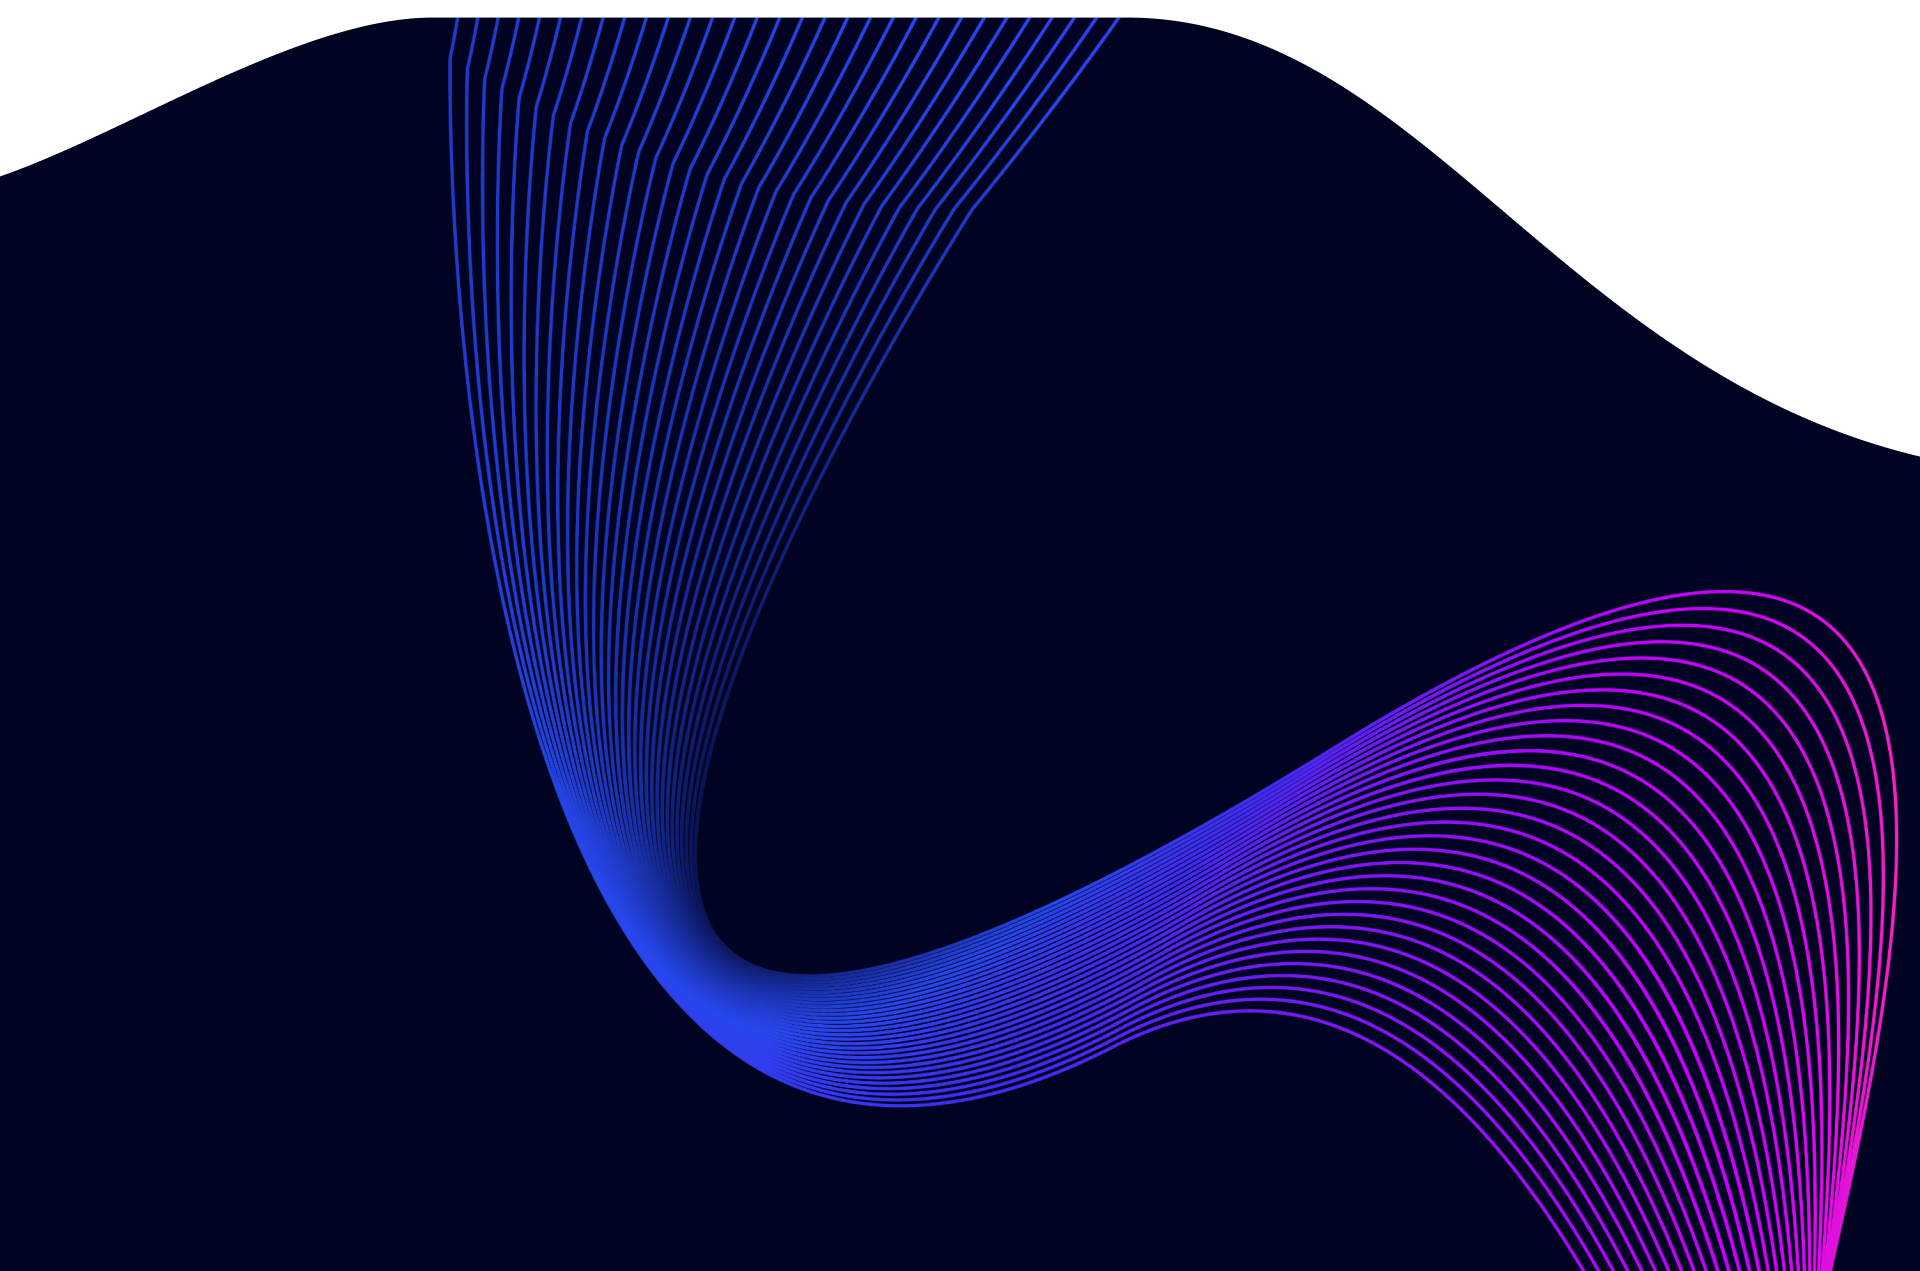
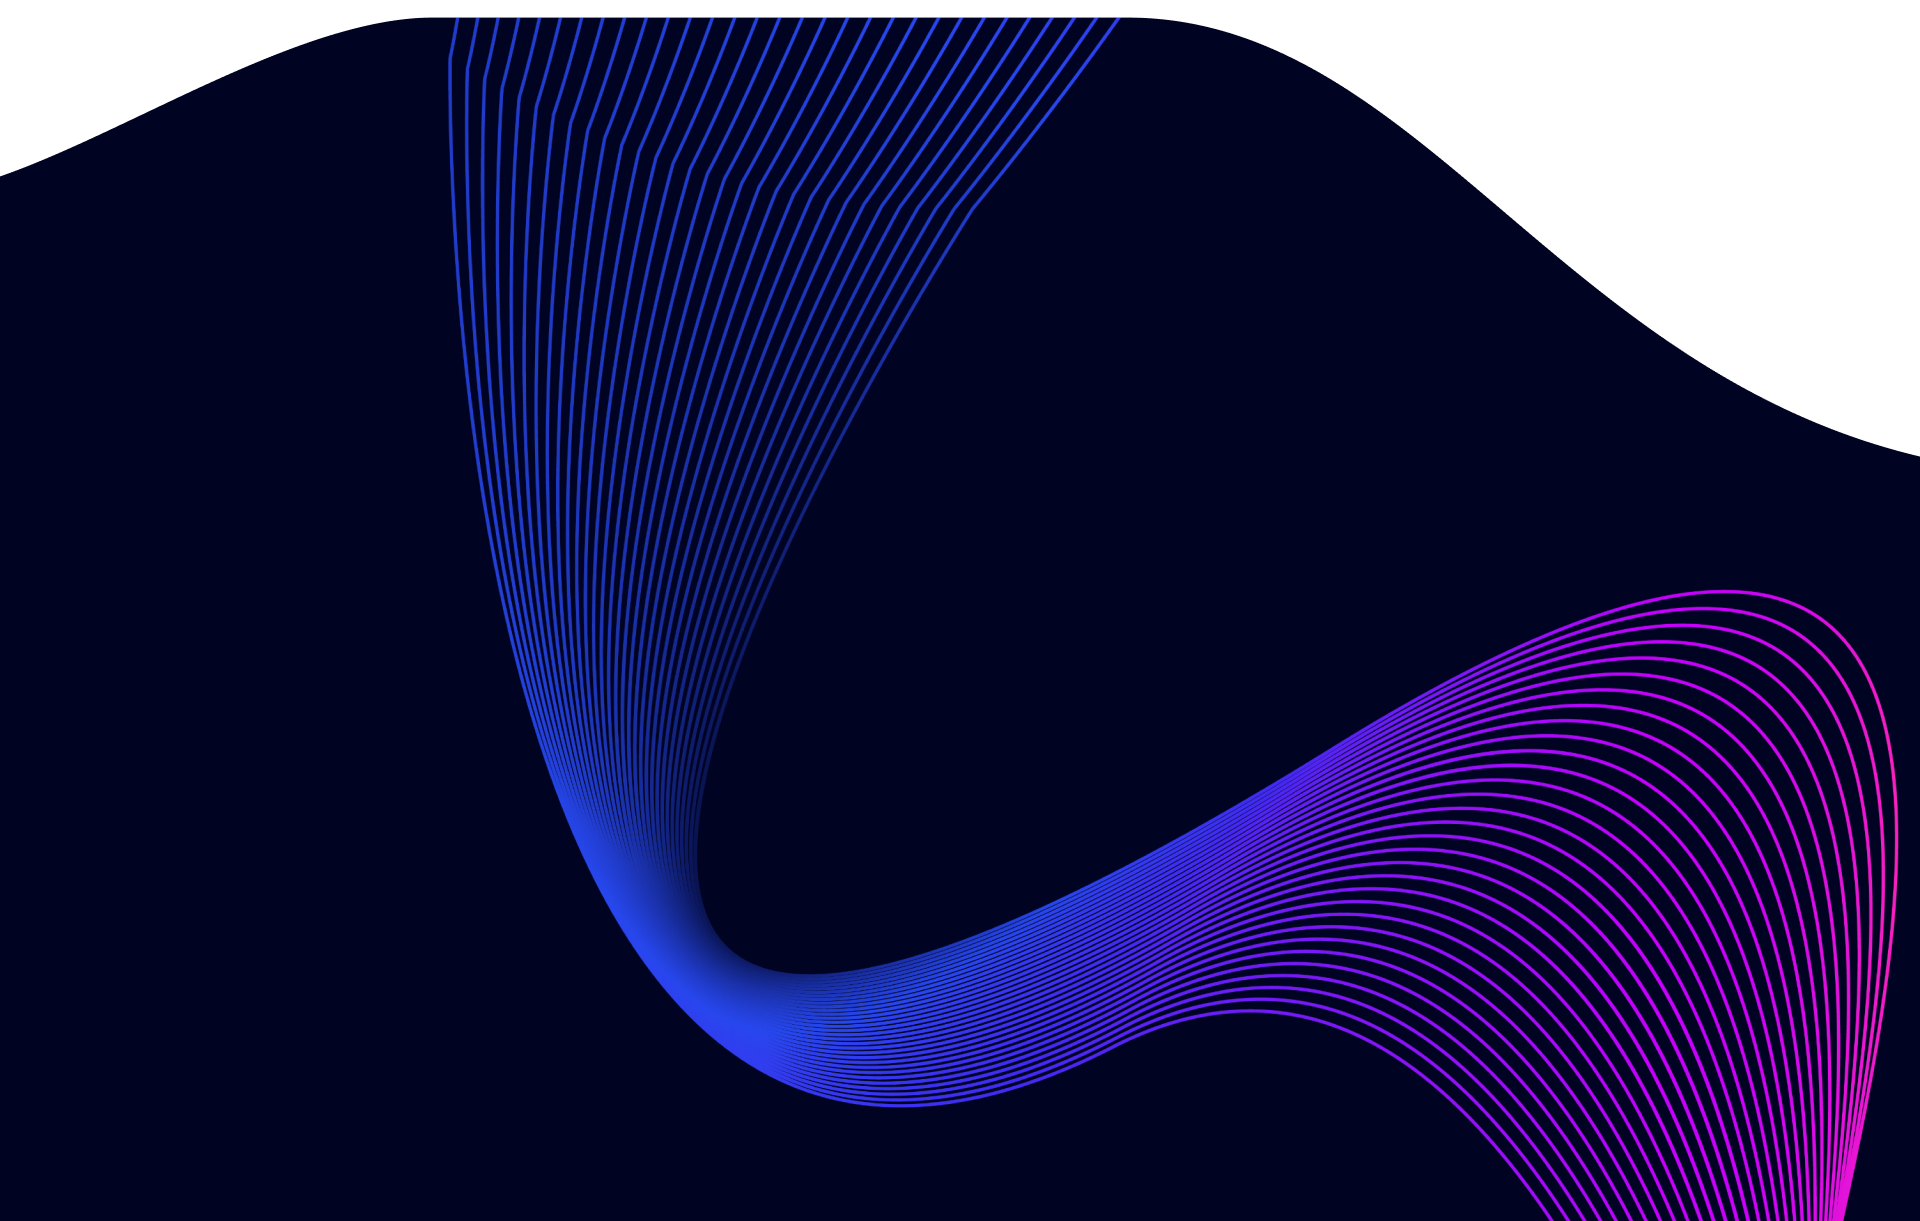
improved style

diff --git a/style/main.css b/style/main.css
@@ -37,7 +37,7 @@ html {
 }
 
 .bg-bottom {
-    bottom: -100px;
+    bottom: -5rem;
 }
 
 body {
@@ -188,11 +188,11 @@ header {
     transform: scale(.97);
 }
 
-
-
 .feature {
     position: relative;
-    min-height: 460px;
+    height: 80vh;
+    max-height: 50rem;
+    width: 100%;
     display: grid;
     grid-template-columns: .8fr 1.2fr;
     align-items: center;
@@ -239,6 +239,7 @@ header {
     opacity: 0;
     transition: .8s ease;
     text-align: left;
+    margin-left: 5rem;
 }
 
 .feature-label.is-visible {
@@ -404,13 +405,12 @@ header {
 }
 
 .closing {
-    height: 100vh;
+    height: 90vh;
     display: flex;
     flex-direction: column;
     align-items: center;
     justify-content: center;
     text-align: center;
-    padding: 40px 0 75px;
     z-index: 10;
     position: relative;
 }
@@ -452,7 +452,6 @@ footer {
     text-align: center;
     color: #8a8d95;
     font-size: 11px;
-    padding: 0 0 22px;
     z-index: 5;
 }
 
@@ -1209,69 +1208,56 @@ footer {
 
 .qs-note {
     width: 100%;
-    max-width: 60rem;
     padding: 18px 22px;
-    text-align: left;
+    text-align: center;
     background: #fff;
-    border: 1px solid #dde4ef;
     border-radius: 12px;
     color: #354258;
     opacity: 0;
     pointer-events: none;
-    box-shadow: 0 14px 30px rgba(35, 43, 65, .08);
+}
+
+.qs-eyebrow {
+    display: block;
+    margin-bottom: 9px;
+    color: #5278c9;
+    font-size: .7rem;
+    font-weight: 700;
+    letter-spacing: .16em;
 }
 
 .qs-note h3 {
     margin: 0 0 8px;
-    font-size: 1.05rem;
+    font-size: clamp(1.12rem, 2vw, 1.35rem);
     color: #111c32;
 }
 
-.qs-note p {
-    margin: 0 0 14px;
-    font-size: .95rem;
-    line-height: 1.55;
-}
-
-.qs-note code {
-    font: 500 .9em ui-monospace, SFMono-Regular, Menlo, monospace;
-    background: #e9eff9;
-    color: #284f9e;
-    padding: .1em .35em;
-    border-radius: 3px;
-}
-
-.qs-chips {
+#providers-list{
     display: flex;
-    flex-wrap: wrap;
-    gap: 8px;
-    margin-bottom: 12px;
+    justify-content: center;
 }
 
-.qs-chips button {
-    font: 500 .82rem ui-monospace, SFMono-Regular, Menlo, monospace;
-    padding: 5px 13px;
-    border-radius: 99px;
-    border: 1px solid #c4cfe2;
-    background: #fff;
-    color: #354258;
-    cursor: pointer;
-    transition: .2s;
+#providers-list li{
+    list-style: none;
+    width: fit-content;
 }
 
-.qs-chips button.on {
-    background: #3268d8;
-    border-color: #3268d8;
-    color: #fff;
-}
-
-.qs-note .qs-cmd {
+.qs-cmd {
     display: block;
     padding: 10px 14px;
     border-radius: 8px;
-    background: #151922;
-    color: #98c379;
-    font-size: .95rem;
+    border: 2px solid var(--muted);
+    color: var(--ag-ink);
+    font-size: 1rem;
+    margin: 0px 10px;
+    font-weight: 500;
+    font-family: ui-monospace, SFMono-Regular, Menlo, monospace;
+    transition: 200ms ease-out;
+}
+
+.qs-cmd:hover{
+    transform: scale(1.05);
+    cursor: pointer;
 }
 
 #qs-base {
@@ -1315,9 +1301,93 @@ footer {
     .qs-note {
         padding: 14px 16px;
     }
+}
 
-    .qs-note p {
-        font-size: .85rem;
-        margin-bottom: 10px;
+
+/* ===== Refinement: feature copy + provider picker ===== */
+.feature-label {
+    align-self: center;
+    max-width: 36rem;
+    padding: clamp(22px, 3vw, 34px);
+    border: 1px solid rgba(255, 255, 255, .58);
+    border-radius: 20px;
+    color: #182744;
+    background: linear-gradient(135deg, rgba(255,255,255,.82), rgba(239,245,255,.62));
+    box-shadow: 0 18px 48px rgba(31, 58, 105, .09);
+    -webkit-backdrop-filter: blur(14px);
+    backdrop-filter: blur(14px);
+}
+
+.feature-label .feature-kicker {
+    display: inline-block;
+    margin-bottom: 14px;
+    color: #5278c9;
+    font-size: .68rem;
+    font-weight: 700;
+    letter-spacing: .16em;
+}
+
+.feature-label > p:first-of-type {
+    margin: 0 0 10px;
+    color: #172b4d;
+    font-size: clamp(1.35rem, 2.2vw, 1.8rem);
+    line-height: 1.2;
+    font-weight: 700;
+    letter-spacing: -.035em;
+}
+
+.feature-label .feature-description {
+    margin: 0;
+    color: #53627a;
+    font-size: clamp(.96rem, 1.35vw, 1.05rem);
+    line-height: 1.7;
+}
+
+.feature-label strong {
+    color: #244f9e;
+    font-weight: 700;
+}
+
+
+
+
+
+.terminal-body .py-comment {
+    color: #7f8da5;
+    font-style: italic;
+}
+
+@media (max-width: 900px) {
+    .feature-label {
+        max-width: none;
+    }
+    .qs-provider-list {
+        grid-template-columns: repeat(2, minmax(0, 1fr));
+    }
+}
+
+@media (max-width: 640px) {
+    .feature-label {
+        padding: 20px;
+        border-radius: 16px;
+        font-size: .98rem;
+    }
+    .feature-label > p:first-of-type {
+        font-size: 1.35rem;
+    }
+    .qs-provider-list {
+        gap: 7px;
+    }
+    .qs-provider {
+        padding: 10px;
+    }
+    .qs-provider-name {
+        font-size: .82rem;
+    }
+    .qs-provider-hint {
+        font-size: .64rem;
+    }
+    .qs-note .qs-cmd {
+        font-size: .76rem;
     }
 }

diff --git a/index.html b/index.html
@@ -36,10 +36,11 @@
       <section class="feature">
         <h2 class="feature-title reveal">Spiegazione<br>&amp; codice</h2>
         <div class="feature-label reveal">
-          Unisci la teoria alla pratica in un'unica schermata. Da un lato leggi la <strong>spiegazione architetturale
-            generata dall'IA</strong> per comprendere i concetti chiave, dall'altro esplori il <strong>codice sorgente
-            originale</strong>. I sussurri contestuali ti guidano riga per riga nei passaggi più complessi, per non
-          farti mai perdere il filo.
+          <span class="feature-kicker">COMPRENDI · ESPLORA · IMPARA</span>
+          <p>Teoria e pratica, finalmente nello stesso spazio.</p>
+          <p class="feature-description">Leggi la <strong>spiegazione architetturale generata dall’IA</strong> mentre
+            esplori il <strong>codice sorgente originale</strong>. I suggerimenti contestuali collegano i concetti
+            alle righe di codice e ti aiutano a capire non solo cosa succede, ma anche perché.</p>
         </div>
         <div class="mockups">
           <div class="mock-card paper reveal">
@@ -64,8 +65,6 @@
         </div>
       </section>
 
-
-
       <section class="quickstart" id="quickstart">
         <div class="qs-stage">
           <div class="quickstart-terminal" id="qs-terminal">
@@ -86,16 +85,16 @@
 )</pre>
           </div>
           <aside class="qs-note" id="qs-note">
-            <h3><code>BaseChatModel</code> è la base di LangChain</h3>
-            <p>È la classe base generica di LangChain per i modelli di chat: RepoWhisper funziona con qualsiasi modello
-              che la estende. Scegli il provider e installa il suo extra per avere il modello pronto da passare come <code>llm</code>.</p>
-            <div class="qs-chips" role="group" aria-label="Provider LLM">
-              <button type="button" class="on" data-extra="groq">groq</button>
-              <button type="button" data-extra="openai">openai</button>
-              <button type="button" data-extra="anthropic">anthropic</button>
-              <button type="button" data-extra="ollama">ollama</button>
+            <span class="qs-eyebrow">IL TUO MODELLO, LA TUA SCELTA</span>
+            <h3>Scegli il provider che preferisci</h3>
+            <div>
+              <ul id="providers-list">
+                <li><code class="qs-cmd">pip install repowhiser[groq]</code></li>
+                <li><code class="qs-cmd">pip install repowhiser[openai]</code></li>
+                <li><code class="qs-cmd">pip install repowhiser[anthropic]</code></li>
+                <li><code class="qs-cmd">pip install repowhiser[ollama]</code></li>
+              </ul>
             </div>
-            <code class="qs-cmd" id="qs-cmd">pip install "RepoWhisper[groq]"</code>
           </aside>
           <p class="quickstart-text" id="qs-text">
             Inizializza il motore in poche righe di Python. Configura il repository target, collega il tuo LLM preferito e
@@ -108,7 +107,7 @@
         <div class="ag-stage">
           <div class="ag-heading">
             <div>
-              <span class="ag-eyebrow">SYSTEM ARCHITECTURE <i></i> MULTI-AGENT WORKFLOW</span>
+              <span class="ag-eyebrow">ARCHITETTURA DI SISTEMA <i></i> WORKFLOW MULTI-AGENTE</span>
               <h2 id="ag-title">Un sistema coordinato.<br><span>Un’analisi, passo dopo passo.</span></h2>
               <p class="ag-sub">Un flusso orchestrato in cui ogni agente ha una responsabilità precisa.</p>
             </div>
@@ -389,11 +388,6 @@
         const lead = vh * .4;
         draw(clamp((-r.top + lead) / (sec.offsetHeight - vh + lead)));
       }
-
-      note.querySelectorAll('[data-extra]').forEach(btn => btn.addEventListener('click', () => {
-        note.querySelectorAll('[data-extra]').forEach(b => b.classList.toggle('on', b === btn));
-        cmd.textContent = `pip install "RepoWhisper[${btn.dataset.extra}]"`;
-      }));
 
       if (matchMedia('(prefers-reduced-motion: reduce)').matches) {
         sec.classList.add('rm', 'qs-on');
